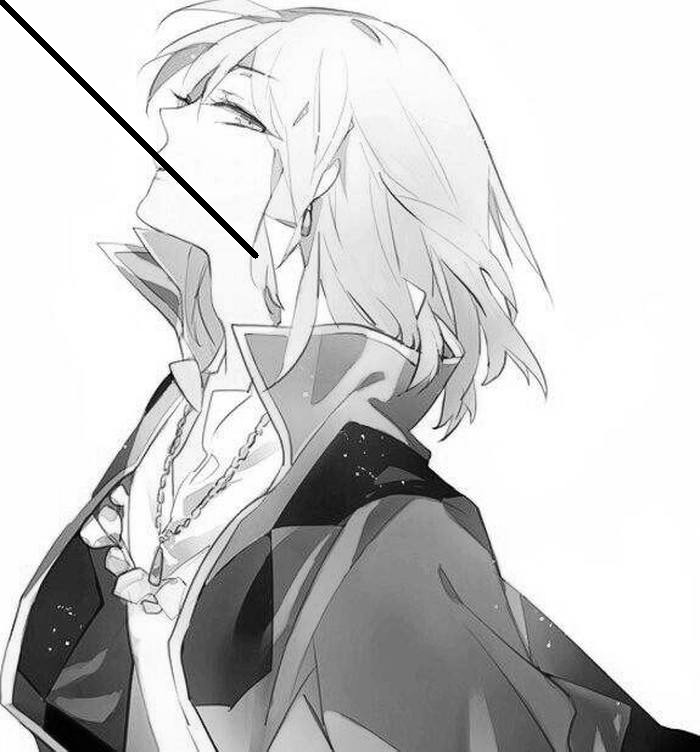
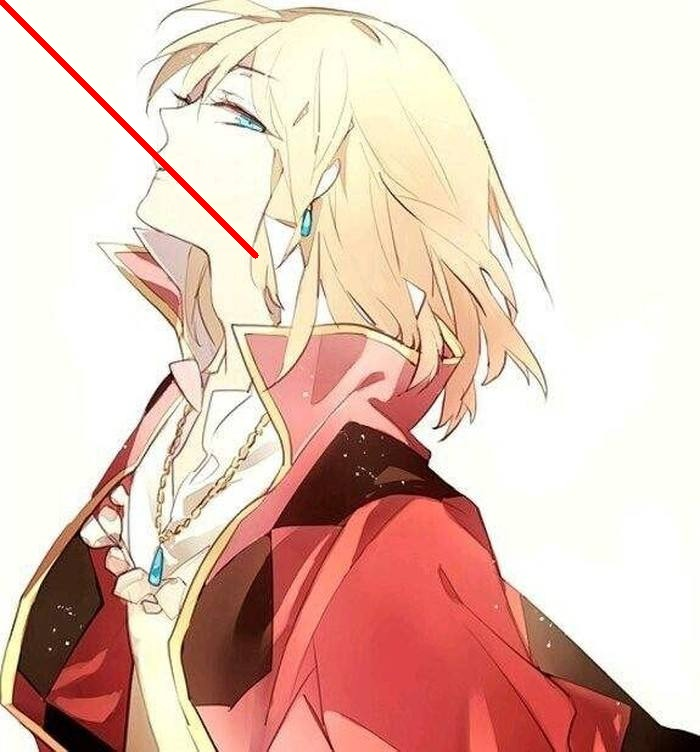
n

diff --git a/hello.py b/hello.py
@@ -1,7 +1,7 @@
 import numpy as np
 import cv2
 
-img=cv2.imread('haer.jpg',0)
+img=cv2.imread('haer.jpg',1)
 
 img=cv2.line(img,(0,0),(255,255),(0,0,255),5)
 
